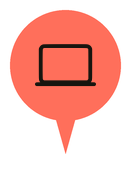
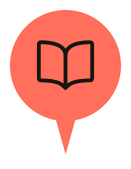
A bubble stops looking like a restaurant, and Focus opens a book
Two changes to what the map says about itself.

**The bubbles go grey.** They were warm earth — the app's own family,
which sounded right and measured wrong. All three sat inside the hue arc
`cafes` and `eats` live in, and once the pins stopped being pastels the
hundred-bubble and the Eats pin came to 1.04:1 against each other: one
colour, two meanings, on a map where one means "a restaurant" and the
other means "forty places".

Hue could not fix it. Nine categories already spend the wheel, and a
bubble sitting in the one wide gap left would read as a tenth category,
which is the opposite of what a bubble is. So it is the other channel:
every category pin carries at least 55% saturation, every bubble now
carries under 10, and a bubble reads as grey — ours, but furniture.

Density still steps, in the one channel left. The ramp is solved so the
worst of the three against either map ground is 1.91:1 where the earth
ramp's worst was 1.24, so this is not a trade. Measured on the simulator:
all three fills reach the screen exactly, and the hundred-bubble against
the Eats pin goes 1.04 → 1.62.

**`focus` takes `book-outline`.** It is only in `CATEGORIES`, never in
`VIBES`, so one line moves it in five screens, the filter chip, the
detail page and the map. `heritage` keeps `library-outline` — spines on
a shelf against an open book, indigo against red, which reads apart.

The drift test earned its keep on the way: changing the table turned it
[…]

Changed region(s): [[0.2443, 0.2367, 0.7328, 0.5325]]

diff --git a/app/src/lib/cluster.ts b/app/src/lib/cluster.ts
@@ -105,18 +105,37 @@ export type ClusterSkin = { fill: string; ink: string };
  * How dense the bubble looks, by how much it holds.
  *
  * The same two steps as `clusterSize`, so colour and size tell one story
- * and not two. Warm earth, the app's own family, filled rather than
- * outlined: a white disc inside a hard dark ring is Google's own
- * annotation style, and a reader should be able to tell our groups from
- * the map's furniture without reading either.
+ * and not two. Filled rather than outlined: a white disc inside a hard
+ * dark ring is Google's own annotation style, and a reader should be able
+ * to tell our groups from the map's furniture without reading either.
  *
- * The ramp stops short of the accent's coral on purpose. The one coral
- * thing on this map is the place the reader chose, and a bubble of a
- * hundred must not compete with it. Each step clears 4.5:1 against its
- * own ink, which is why the figure turns white at the top.
+ * Grey, and that is the whole point of these particular numbers.
+ *
+ * They used to be warm earth — the app's own family, which sounded right
+ * and measured wrong. All three sat inside the hue arc `cafes` and `eats`
+ * live in, and once the pins stopped being pastels the hundred-bubble and
+ * the Eats pin came to 1.04:1 against each other, which is to say they
+ * were one colour. A reader scanning a dense map saw brown discs that
+ * were sometimes a restaurant and sometimes forty places.
+ *
+ * Hue could not fix it. Nine categories already spend the wheel, and a
+ * bubble sitting in the one wide gap left would simply read as a tenth
+ * category — which is the opposite of what a bubble is. So the fix is the
+ * other channel: every category pin carries at least 55% saturation and
+ * every step here carries under 10, so a bubble reads as grey. Not a kind
+ * of place. Ours, but furniture.
+ *
+ * Density still steps, in the one channel that is left — darkness — and
+ * the ramp is set so the worst of the three against either map ground is
+ * 1.91:1, where the earth ramp's worst was 1.24. The white ring does the
+ * rest, as it does for the pins.
+ *
+ * The ramp never reaches the accent's coral, which belongs to the one
+ * place the reader chose. Each step clears 4.5:1 against its own ink,
+ * which is why the figure turns white at the top.
  */
 export function clusterSkin(count: number): ClusterSkin {
-  if (count >= 100) return { fill: '#9C6647', ink: '#FFFFFF' };
-  if (count >= 10) return { fill: '#DBA97F', ink: '#17150F' };
-  return { fill: '#F0DCC8', ink: '#17150F' };
+  if (count >= 100) return { fill: '#545045', ink: '#FFFFFF' };
+  if (count >= 10) return { fill: '#857F6F', ink: '#17150F' };
+  return { fill: '#B9B5AC', ink: '#17150F' };
 }

diff --git a/app/src/lib/cluster.test.ts b/app/src/lib/cluster.test.ts
@@ -1,4 +1,5 @@
 import { describe, expect, it } from 'vitest';
+import { CATEGORIES, CATEGORY_ORDER } from './categories';
 import { clusterPins, clusterSize, clusterSkin, type ClusterPoint } from './cluster';
 
 const p = (slug: string, lat: number, lng: number): ClusterPoint => ({ slug, lat, lng });
@@ -109,5 +110,47 @@ describe('clusterSkin', () => {
   // The one coral thing on the map is the place the reader chose.
   it('never reaches for the accent', () => {
     for (const n of [1, 10, 100, 288]) expect(clusterSkin(n).fill).not.toBe('#FF6F5B');
+  });
+});
+
+/** Saturation, the channel that says whether a colour is *a colour* or a grey. */
+function saturation(hex: string): number {
+  const [r, g, b] = [1, 3, 5].map((i) => parseInt(hex.slice(i, i + 2), 16) / 255);
+  const max = Math.max(r, g, b);
+  const min = Math.min(r, g, b);
+  if (max === min) return 0;
+  const l = (max + min) / 2;
+  return ((max - min) / (l > 0.5 ? 2 - max - min : max + min)) * 100;
+}
+
+describe('a bubble is not a kind of place', () => {
+  // The bubbles used to be warm earth, which put all three of them inside
+  // the hue arc `cafes` and `eats` live in — the hundred-bubble and the
+  // Eats pin measured 1.04:1 against each other, which is to say they were
+  // one colour. A reader scanning a busy map saw brown discs that were
+  // sometimes a restaurant and sometimes forty places.
+  //
+  // Hue could not fix it: every hue this map can afford is already spoken
+  // for, and a bubble in the one remaining gap would just read as a tenth
+  // category. So the fix is the other channel. Every category pin carries
+  // at least 55% saturation; a bubble carries under 20 and reads as grey,
+  // which is what map furniture of ours should look like.
+  it('stays too grey to be mistaken for a category', () => {
+    for (const n of [1, 9, 10, 99, 100, 288]) {
+      expect(saturation(clusterSkin(n).fill)).toBeLessThan(20);
+    }
+    for (const key of CATEGORY_ORDER) {
+      expect(saturation(CATEGORIES[key].pin)).toBeGreaterThan(55);
+    }
+  });
+
+  // Density still steps, and it steps in the one channel left: darkness.
+  it('still deepens with the count', () => {
+    const lightness = (hex: string) => {
+      const [r, g, b] = [1, 3, 5].map((i) => parseInt(hex.slice(i, i + 2), 16) / 255);
+      return (Math.max(r, g, b) + Math.min(r, g, b)) / 2;
+    };
+    expect(lightness(clusterSkin(9).fill)).toBeGreaterThan(lightness(clusterSkin(10).fill));
+    expect(lightness(clusterSkin(10).fill)).toBeGreaterThan(lightness(clusterSkin(100).fill));
   });
 });

diff --git a/app/src/lib/categories.ts b/app/src/lib/categories.ts
@@ -121,7 +121,7 @@ export const CATEGORIES: Record<string, CategoryStyle> = {
   // reel, for `fun`: a cinema is what the catalog holds today, but the key
   // has to be as true for bowling or a show as for a screen.
   focus: {
-    en: 'Focus', vi: 'Học tập', ja: '作業', icon: 'laptop-outline', color: '#989AD7',
+    en: 'Focus', vi: 'Học tập', ja: '作業', icon: 'book-outline', color: '#989AD7',
     pin: '#6468E2',
     terms: ['work', 'study', 'laptop', 'wifi', 'coworking', 'quiet', 'làm việc', 'học bài', 'học tập', 'ngồi lâu', '作業', '勉強'],
   },
